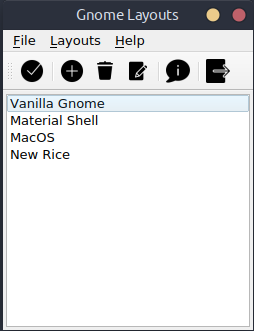
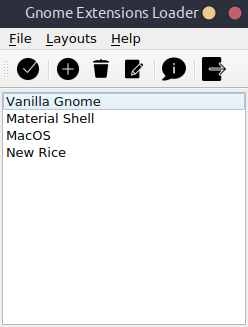
Makefile, .desktop added, readme modified

Changed region(s): [[0.0, 0.0, 1.0, 1.0]]

diff --git a/gnome-extensions-loader/ui/UI.py b/gnome-extensions-loader/ui/UI.py
@@ -11,10 +11,15 @@
 from PyQt5 import QtCore, QtGui, QtWidgets
 
 
+SETUP_DIR="/usr/share/gnome-extensions-loader"
+
 class Ui_MainWindow(object):
     def setupUi(self, MainWindow):
         MainWindow.setObjectName("MainWindow")
-        MainWindow.resize(254, 300)
+        MainWindow.resize(250, 300)
+        icon = QtGui.QIcon()
+        icon.addPixmap(QtGui.QPixmap(f"{SETUP_DIR}/ui/icons/gnome-extensions-loader.png"), QtGui.QIcon.Normal, QtGui.QIcon.Off)
+        MainWindow.setWindowIcon(icon)
         self.centralwidget = QtWidgets.QWidget(MainWindow)
         self.centralwidget.setObjectName("centralwidget")
         self.horizontalLayout = QtWidgets.QHBoxLayout(self.centralwidget)
@@ -25,7 +30,7 @@ class Ui_MainWindow(object):
         self.horizontalLayout.addWidget(self.listWidget)
         MainWindow.setCentralWidget(self.centralwidget)
         self.menubar = QtWidgets.QMenuBar(MainWindow)
-        self.menubar.setGeometry(QtCore.QRect(0, 0, 254, 22))
+        self.menubar.setGeometry(QtCore.QRect(0, 0, 250, 22))
         self.menubar.setObjectName("menubar")
         self.menuLayouts = QtWidgets.QMenu(self.menubar)
         self.menuLayouts.setObjectName("menuLayouts")
@@ -38,34 +43,34 @@ class Ui_MainWindow(object):
         self.toolBar.setObjectName("toolBar")
         MainWindow.addToolBar(QtCore.Qt.TopToolBarArea, self.toolBar)
         self.action_Add = QtWidgets.QAction(MainWindow)
-        icon = QtGui.QIcon()
-        icon.addPixmap(QtGui.QPixmap("ui/icons/add.png"), QtGui.QIcon.Normal, QtGui.QIcon.Off)
-        self.action_Add.setIcon(icon)
+        icon1 = QtGui.QIcon()
+        icon1.addPixmap(QtGui.QPixmap(f"{SETUP_DIR}/ui/icons/add.png"), QtGui.QIcon.Normal, QtGui.QIcon.Off)
+        self.action_Add.setIcon(icon1)
         self.action_Add.setObjectName("action_Add")
         self.action_Remove = QtWidgets.QAction(MainWindow)
-        icon1 = QtGui.QIcon()
-        icon1.addPixmap(QtGui.QPixmap("ui/icons/remove.png"), QtGui.QIcon.Normal, QtGui.QIcon.Off)
-        self.action_Remove.setIcon(icon1)
+        icon2 = QtGui.QIcon()
+        icon2.addPixmap(QtGui.QPixmap(f"{SETUP_DIR}/ui/icons/remove.png"), QtGui.QIcon.Normal, QtGui.QIcon.Off)
+        self.action_Remove.setIcon(icon2)
         self.action_Remove.setObjectName("action_Remove")
         self.action_Overwrite = QtWidgets.QAction(MainWindow)
-        icon2 = QtGui.QIcon()
-        icon2.addPixmap(QtGui.QPixmap("ui/icons/edit.png"), QtGui.QIcon.Normal, QtGui.QIcon.Off)
-        self.action_Overwrite.setIcon(icon2)
+        icon3 = QtGui.QIcon()
+        icon3.addPixmap(QtGui.QPixmap(f"{SETUP_DIR}/ui/icons/edit.png"), QtGui.QIcon.Normal, QtGui.QIcon.Off)
+        self.action_Overwrite.setIcon(icon3)
         self.action_Overwrite.setObjectName("action_Overwrite")
         self.action_About = QtWidgets.QAction(MainWindow)
-        icon3 = QtGui.QIcon()
-        icon3.addPixmap(QtGui.QPixmap("ui/icons/about.png"), QtGui.QIcon.Normal, QtGui.QIcon.Off)
-        self.action_About.setIcon(icon3)
+        icon4 = QtGui.QIcon()
+        icon4.addPixmap(QtGui.QPixmap(f"{SETUP_DIR}/ui/icons/about.png"), QtGui.QIcon.Normal, QtGui.QIcon.Off)
+        self.action_About.setIcon(icon4)
         self.action_About.setObjectName("action_About")
         self.action_Exit = QtWidgets.QAction(MainWindow)
-        icon4 = QtGui.QIcon()
-        icon4.addPixmap(QtGui.QPixmap("ui/icons/exit.png"), QtGui.QIcon.Normal, QtGui.QIcon.Off)
-        self.action_Exit.setIcon(icon4)
+        icon5 = QtGui.QIcon()
+        icon5.addPixmap(QtGui.QPixmap(f"{SETUP_DIR}/ui/icons/exit.png"), QtGui.QIcon.Normal, QtGui.QIcon.Off)
+        self.action_Exit.setIcon(icon5)
         self.action_Exit.setObjectName("action_Exit")
         self.action_Apply = QtWidgets.QAction(MainWindow)
-        icon5 = QtGui.QIcon()
-        icon5.addPixmap(QtGui.QPixmap("ui/icons/apply.png"), QtGui.QIcon.Normal, QtGui.QIcon.Off)
-        self.action_Apply.setIcon(icon5)
+        icon6 = QtGui.QIcon()
+        icon6.addPixmap(QtGui.QPixmap(f"{SETUP_DIR}/ui/icons/apply.png"), QtGui.QIcon.Normal, QtGui.QIcon.Off)
+        self.action_Apply.setIcon(icon6)
         self.action_Apply.setObjectName("action_Apply")
         self.menuLayouts.addAction(self.action_Add)
         self.menuLayouts.addAction(self.action_Remove)
@@ -91,7 +96,7 @@ class Ui_MainWindow(object):
 
     def retranslateUi(self, MainWindow):
         _translate = QtCore.QCoreApplication.translate
-        MainWindow.setWindowTitle(_translate("MainWindow", "Gnome Layouts"))
+        MainWindow.setWindowTitle(_translate("MainWindow", "Gnome Extensions Loader"))
         self.menuLayouts.setTitle(_translate("MainWindow", "&Layouts"))
         self.menu_Help.setTitle(_translate("MainWindow", "&Help"))
         self.menu_File.setTitle(_translate("MainWindow", "&File"))

diff --git a/README.md b/README.md
@@ -1,3 +1,22 @@
-# gnome-extensions-loader
+# Gnome Extensions Loader
+
+GUI to save and load gnome shell extensions and extension settings. It makes it easier to share your gnome desktop look with others. 
+
+If an extension does not exist on the system, it will be downloaded from extensions.gnome.org website automatically.
+
+Config files and the downloaded extensions are stored in ~/.config/gnome-extensions-loader directory.
 
 ![](./assets/UI.png)
+
+## Installation
+To install the app run the following command in your terminal.
+```
+git clone https://github.com/emrecanaltinsoy/gnome-extensions-loader.git
+cd gnome-extensions-loader
+make install
+```
+
+To uninstall the app run the following command in your terminal.
+```
+make uninstall
+```
